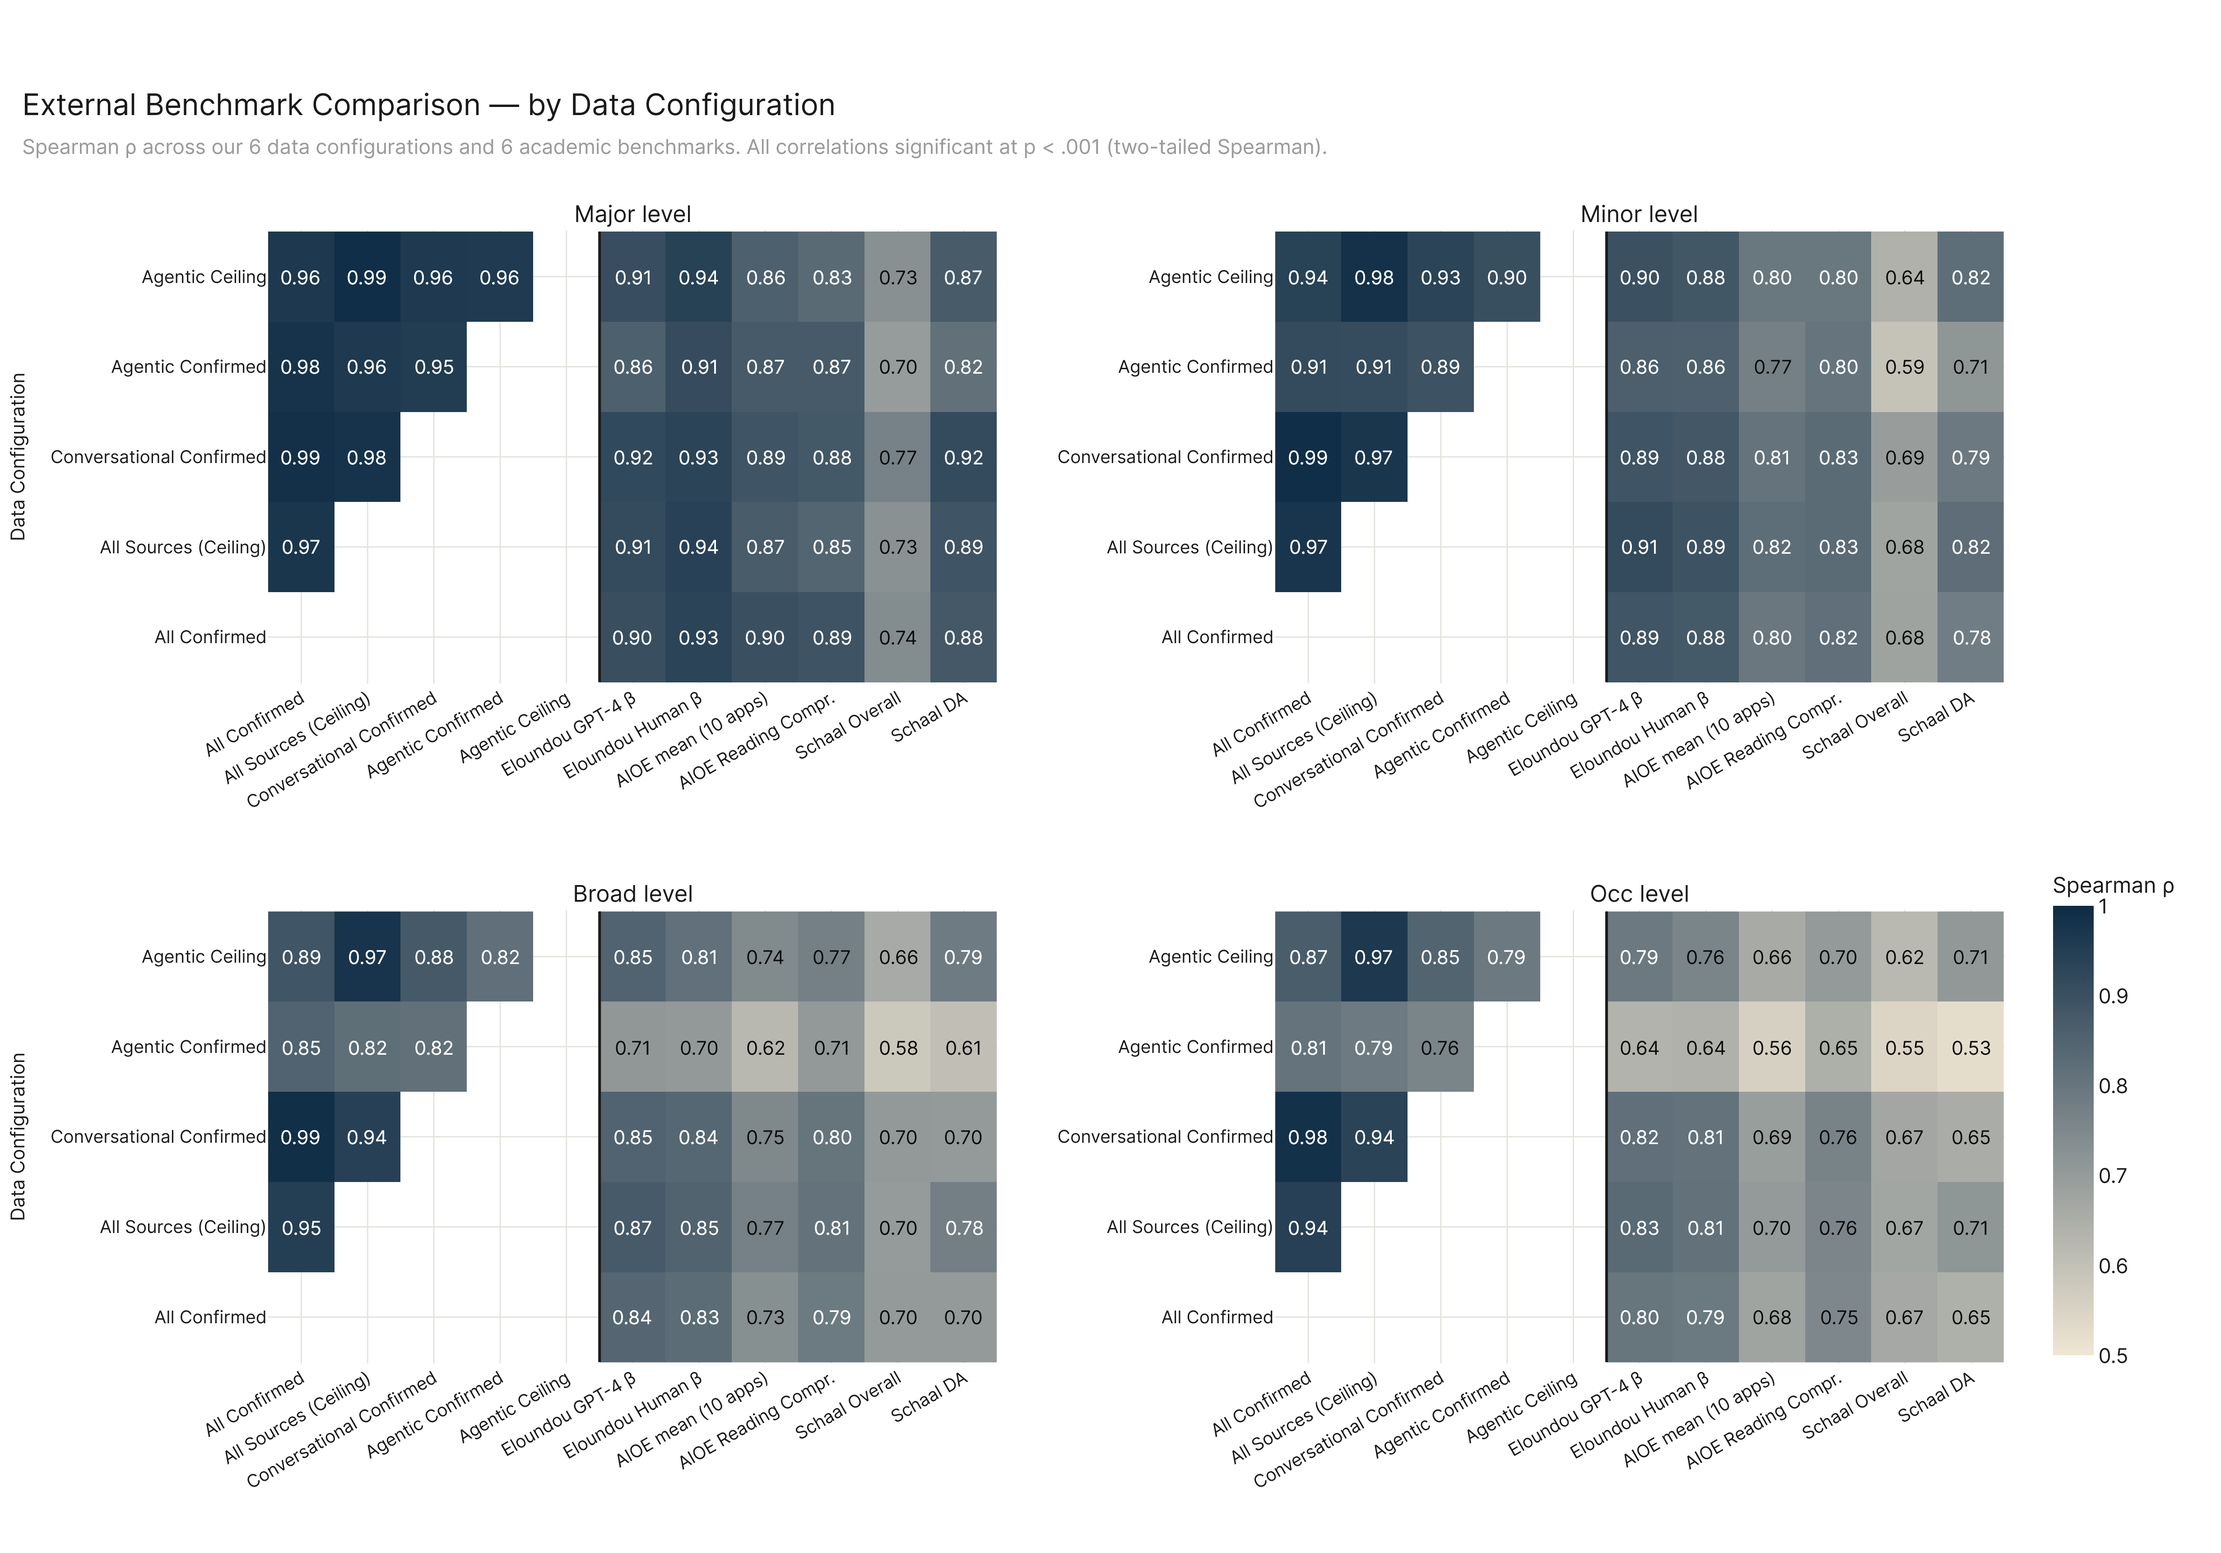
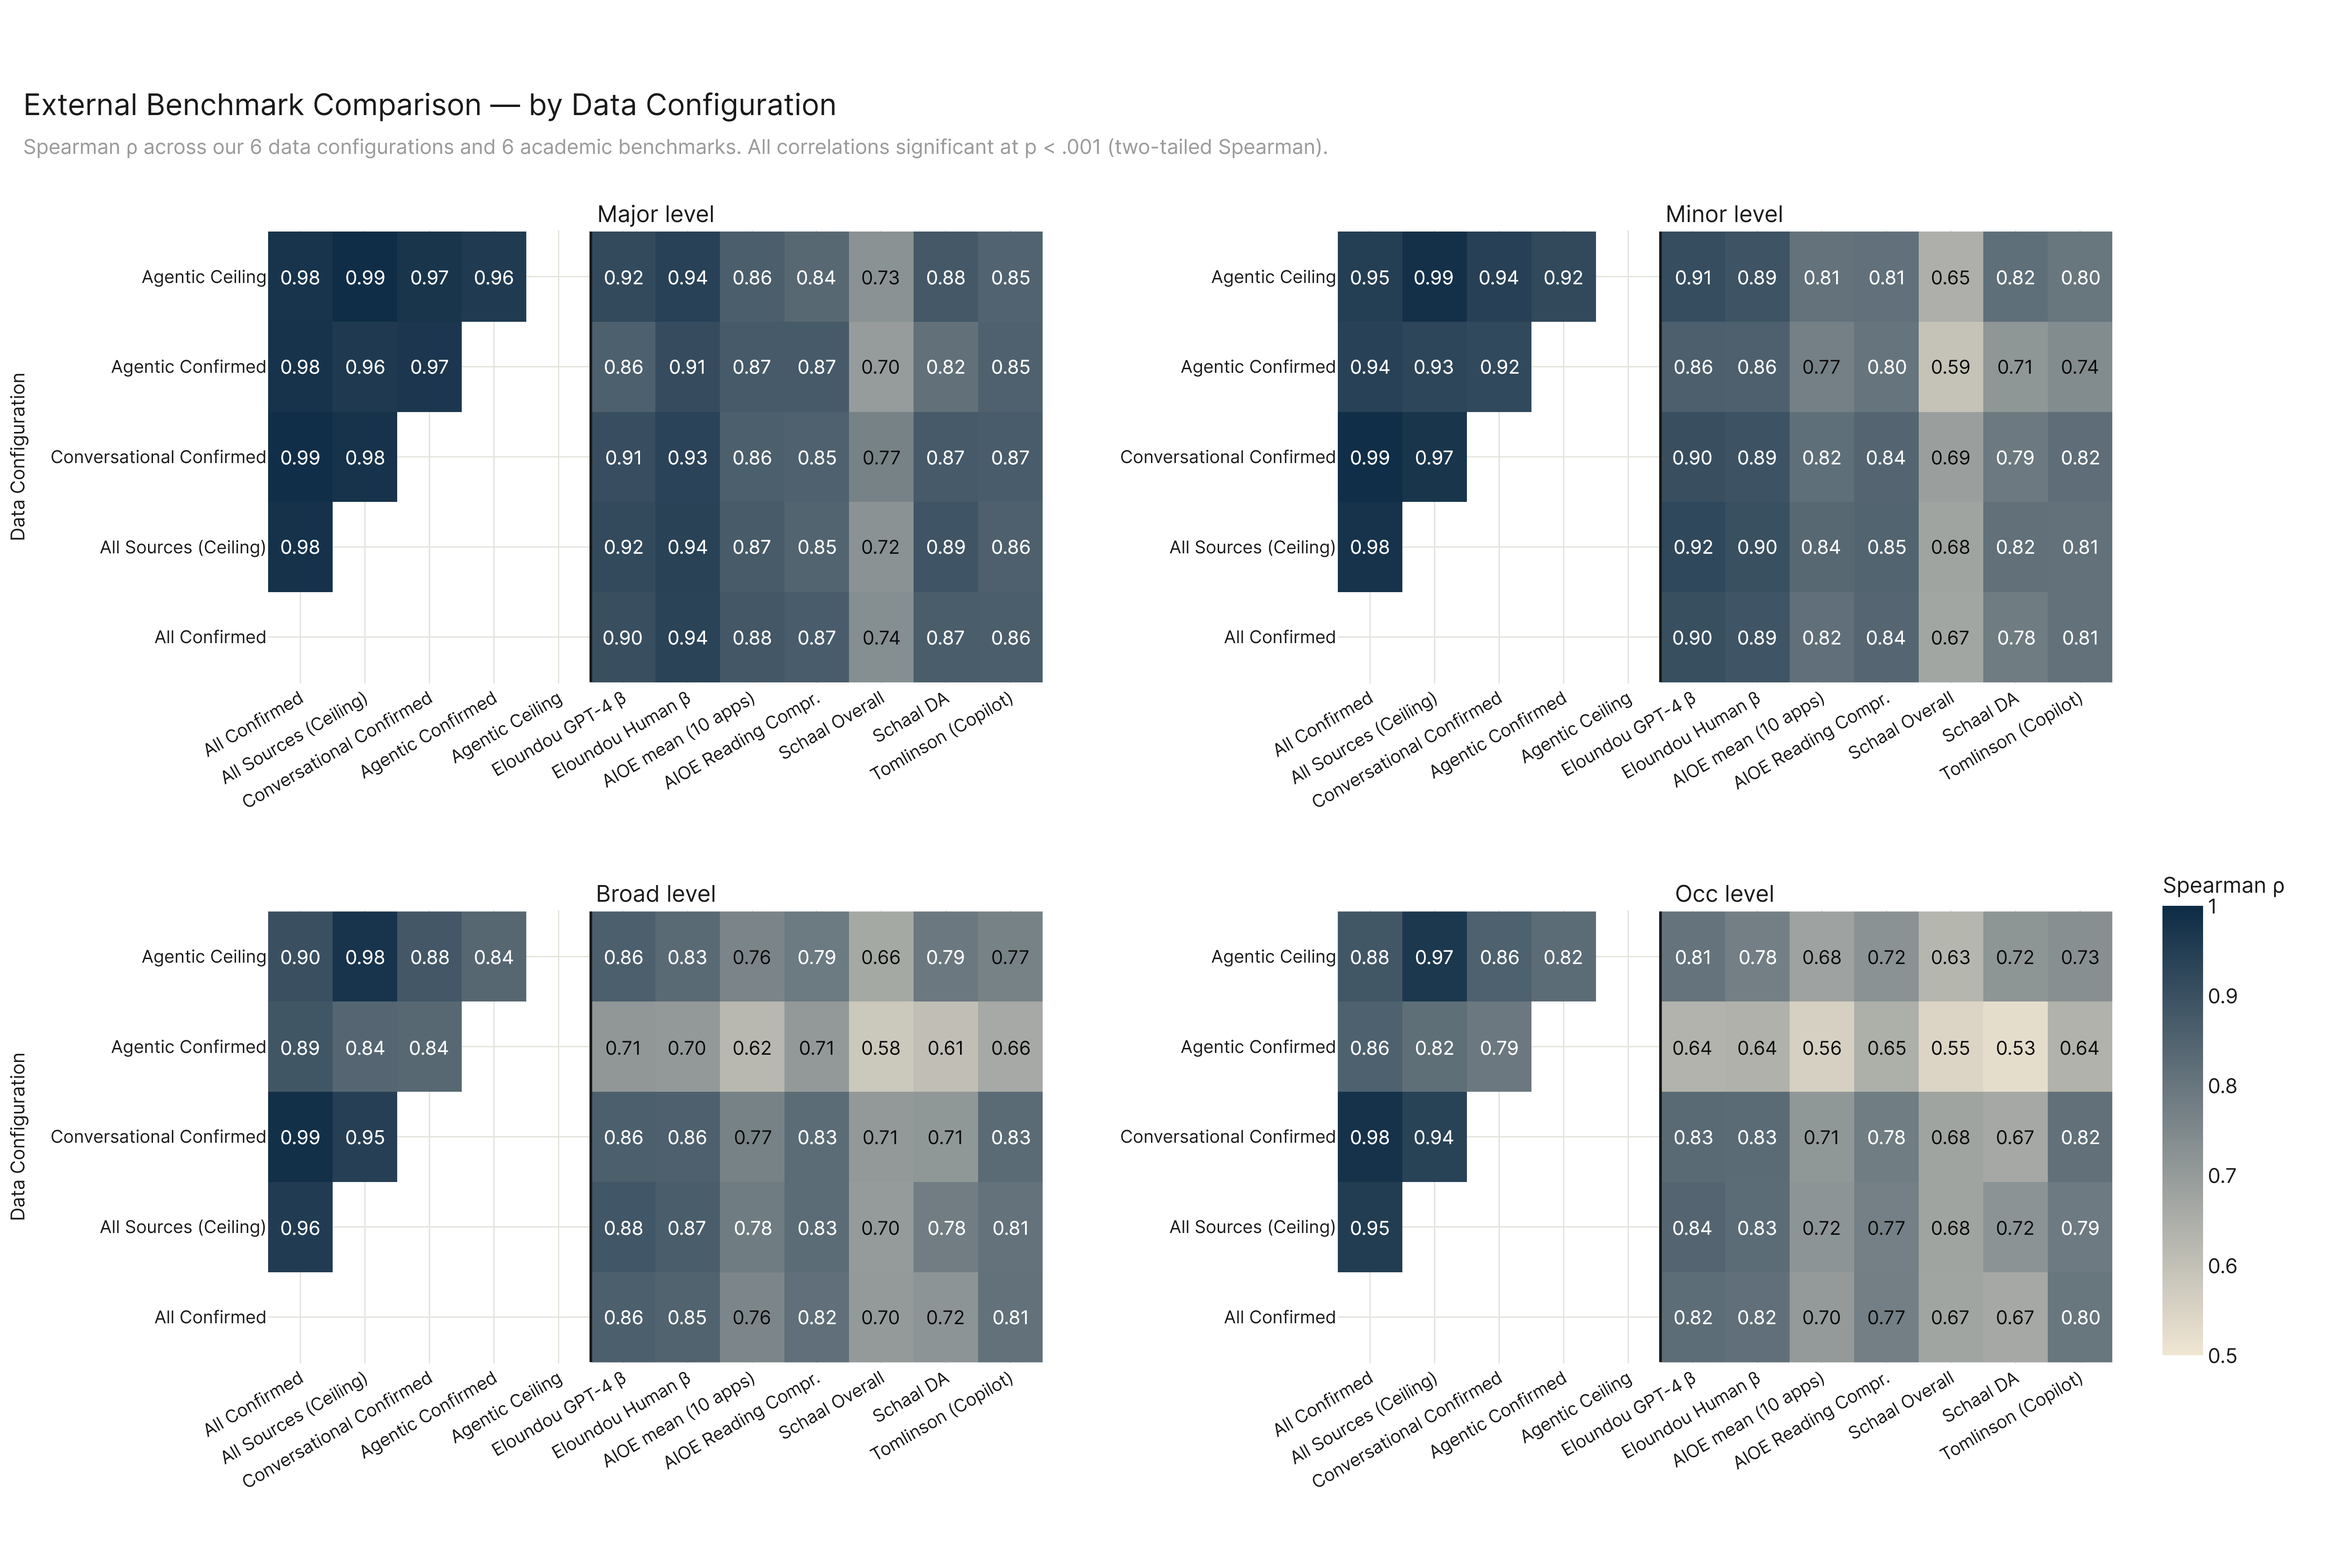
paper(part_1): add Tomlinson (Copilot) AI applicability as 7th external benchmark
Adds Tomlinson, Jaffe, Wang, Counts & Suri 2025 ("Working with AI") AI
applicability scores to convergence.png and convergence_configs.png as a
7th external column. Labeled "Tomlinson (Copilot)" because the score is
derived from Bing Copilot conversations × O*NET IWA weights, sharing its
data family with our internal `Copilot` source row. Renamed the matching
column in the exploratory extcompare_indices heatmap for consistency.

diff --git a/analysis/paper/results/part_1/run.py b/analysis/paper/results/part_1/run.py
@@ -81,12 +81,14 @@ EXT_SOURCES: list[tuple[str, str]] = [
     ("aioe_rc",       "AIOE Reading Compr."),
     ("schaal_overall", "Schaal Overall"),
     ("schaal_da",     "Schaal DA"),
+    ("tomlinson_copilot", "Tomlinson (Copilot)"),
 ]
 
 GPTS_CSV = ANALYSIS_DIR / "data" / "gpts_are_gpts_occ_data.csv"
 AIOE_MATRIX_PATH = ANALYSIS_DIR / "data" / "aioe_ability_matrix.csv"
 ABILITIES_PATH = ANALYSIS_DIR / "data" / "abilities_v30.1.csv"
 SCHAAL_INDICES_CSV = ANALYSIS_DIR / "data" / "Comparison of Indices.csv"
+TOMLINSON_CSV = ANALYSIS_DIR / "data" / "ai_applicability_scores.csv"
 
 
 # ─────────────────────────────────────────────────────────────────────────
@@ -313,6 +315,23 @@ def _load_schaal_occ() -> pd.DataFrame:
     return out
 
 
+def _load_tomlinson_occ() -> pd.DataFrame:
+    """Tomlinson, Jaffe, Wang, Counts & Suri (2025) AI applicability score per
+    SOC, derived from ~100k Bing Copilot conversations × O*NET IWA weights
+    × LLM completion + scope. Title joins exactly to title_current. Returns
+    title_current, tomlinson_copilot."""
+    df = pd.read_csv(TOMLINSON_CSV)
+    assert "title" in df.columns, f"title column missing in {TOMLINSON_CSV}"
+    assert "ai_applicability_score" in df.columns, \
+        f"ai_applicability_score column missing in {TOMLINSON_CSV}"
+    out = pd.DataFrame({
+        "title_current":      df["title"].astype(str),
+        "tomlinson_copilot":  pd.to_numeric(df["ai_applicability_score"], errors="coerce"),
+    }).dropna(subset=["tomlinson_copilot"])
+    assert not out.empty, "Tomlinson scores are all NaN after load"
+    return out
+
+
 def _compute_aioe_occ() -> pd.DataFrame:
     """Per-occupation AIOE scores computed as ratio-of-sums of imp×lv×ability_cap
     over imp≥3 ability rows (per Felten/Raj/Seamans framing). Two variants:
@@ -421,8 +440,11 @@ def _build_convergence_chart(
     eloundou = _load_eloundou_occ()
     aioe = _compute_aioe_occ()
     schaal = _load_schaal_occ()
-    ext_df = eloundou.merge(aioe, on="title_current", how="outer").merge(
-        schaal, on="title_current", how="outer"
+    tomlinson = _load_tomlinson_occ()
+    ext_df = (
+        eloundou.merge(aioe,      on="title_current", how="outer")
+                .merge(schaal,    on="title_current", how="outer")
+                .merge(tomlinson, on="title_current", how="outer")
     )
 
     ext_keys = [k for k, _ in EXT_SOURCES]

diff --git a/analysis/paper/results/part_1/README.md b/analysis/paper/results/part_1/README.md
@@ -7,8 +7,8 @@ First section of the Results chapter. First draft complete. Content in `part_1.m
 | Figure | What It Shows |
 |--------|--------------|
 | `overview.png` | Five-config aggregate footprint: % tasks, workers, and wages as % of national totals (blue/teal/gold bars) |
-| `convergence.png` | 2x2 Spearman rank correlation heatmaps (lower triangle) across four independent sources at four aggregation levels |
-| `convergence_external.png` | 2x2 grid of rectangular 4x4 heatmaps — our four sources (rows) vs. four external academic benchmarks (cols: Eloundou GPT-4 β, Eloundou Human β, AIOE mean, AIOE Reading Comprehension) at four aggregation levels |
+| `convergence.png` | 2x2 Spearman rank correlation heatmaps at four SOC levels. Each panel combines an internal lower-triangle block (4 sources × 4 sources: Claude Browser, Claude API, Copilot, MCP) with a rectangular external block (4 sources × 7 external benchmarks: Eloundou GPT-4 β, Eloundou Human β, AIOE mean, AIOE Reading Comprehension, Schaal Overall, Schaal DA, Tomlinson (Copilot)) |
+| `convergence_configs.png` | Same 2x2 layout but rows are the 5 ANALYSIS_CONFIGS (All Confirmed, All Ceiling, Conversational Confirmed, Agentic Confirmed, Agentic Ceiling) instead of the 4 individual sources. Internal lower-triangle 5×5 + external rectangle 5×7. |
 | `temporal_trend.png` | Three-panel line chart (% tasks / workers / wages) over time, All Confirmed (solid) vs All Ceiling (dashed). Each line is extended past its final observation with a dotted linear OLS projection marking 6mo / 1yr / 2yr horizons (assumes recent rate continues). |
 | `temporal_table_all_confirmed.png` | Growth data table for All Confirmed: tasks, workers, wages, auto-aug, coverage per date |
 | `temporal_table_all_ceiling.png` | Growth data table for All Sources (Ceiling): same columns |
@@ -21,7 +21,7 @@ All charts: National | Freq | Auto-aug ON
 
 **Correlation sources:** Claude (AEI Conv 2026-02-12), Claude API (AEI API 2026-02-12), Copilot (Microsoft), MCP (MCP Cumul. v4)
 
-**External benchmarks:** Eloundou et al. 2023 (`gpts_are_gpts_occ_data.csv`, `dv_rating_beta` and `human_rating_beta`, scaled ×100); AIOE (Felten/Raj/Seamans) — per-occupation score = sum(imp×lv×ability_cap) / sum(imp×lv) over imp≥3 ability rows, using `aioe_ability_matrix.csv` row mean and the Reading Comprehension column. External benchmarks are rolled up from occupation level to SOC group level using an unweighted mean across matched occupations (matches the exploratory gpts_are_gpts and aioe_comparison conventions).
+**External benchmarks:** Eloundou et al. 2023 (`gpts_are_gpts_occ_data.csv`, `dv_rating_beta` and `human_rating_beta`, scaled ×100); AIOE (Felten/Raj/Seamans) — per-occupation score = sum(imp×lv×ability_cap) / sum(imp×lv) over imp≥3 ability rows, using `aioe_ability_matrix.csv` row mean and the Reading Comprehension column; Schaal 2025 (`Comparison of Indices.csv`, `auto_w` overall + `da_w` Data Abundance subhypothesis); Tomlinson, Jaffe, Wang, Counts & Suri 2025 ("Working with AI") AI applicability score (`ai_applicability_scores.csv`) — built on Bing Copilot conversations × O*NET IWA weights, labeled "Tomlinson (Copilot)" because it shares its data family with our internal `Copilot` row. External benchmarks are rolled up from occupation level to SOC group level using an unweighted mean across matched occupations (matches the exploratory gpts_are_gpts and aioe_comparison conventions).
 
 **Tables:** Task Coverage = unique tasks in dataset / unique tasks in eco_2025. Auto-aug = mean across unique tasks. Delta workers/wages show absolute + % change.
 

diff --git a/analysis/ANALYSIS_ARCHITECTURE.md b/analysis/ANALYSIS_ARCHITECTURE.md
@@ -67,7 +67,7 @@ analysis/
 │   ├── extcompare_indices/      — SOC convergence heatmap of our 9
 │   │                              sources/configs vs. all 17 external indices
 │   │                              (Schaal, Eloundou, Webb, SML, AIOE,
-│   │                              Frey-Osborne, Autor, Tomlinson AI App.).
+│   │                              Frey-Osborne, Autor, Tomlinson (Copilot)).
 │   │                              Plus Schaal task-level scatter, group-level
 │   │                              heatmaps, and a magnitude-scatter pair (occ
 │   │                              + major) of all_confirmed vs. 4 external
@@ -421,6 +421,7 @@ The paper also reuses the tech_skills pipeline conceptually from the archived `_
 - **Part 1 temporal_tables historical rows**: the two cream rows above the line-chart series (Sep 2024, Dec 2024) pull task counts from the SAME combined dataset family the line chart uses — `AEI Both + Micro 2024-09-30/2024-12-23` for All Confirmed; `All 2024-09-30/2024-12-23` for Ceiling. Do NOT revert to `Microsoft` and `AEI Conv 2024-12-23` alone — that under-counts the Dec 2024 row.
 - **Part 3 intensity_anchor_fulleco colorbar (% Tasks Exposed)**: Pull colorbar values via `_run_config(PRIMARY_DATASET, "major")` (the dashboard pipeline that drives Part 2 `major_categories`). Do NOT use `compute_major_pct_tasks_affected` from `audit_pct_norm_eco/run_v3.py` — that function restricts to rated task-occ pairs only and produces 53–76% values that don't match the rest of the paper.
 - **Variant A dedup is per-(occ, task)**: eco_2025 expands tasks across GWA/IWA/DWA, so a naive `groupby(major)` would count each task once per work-activity row. `compute_variant_a` dedupes to `(title_current, task_normalized)` before aggregating. For GWA-level variant A, dedup on `(task_normalized, gwa_title)` instead — the same task can legitimately appear in multiple GWAs.
+- **Per-occupation pct_physical MUST dedup on (occ, task)**: same eco_2025 WA-expansion problem. The expansion is *not proportional* between physical and non-physical tasks (some tasks live in 1 WA, others in 4-5). Counting raw rows weights tasks by their WA-expansion factor, giving incorrect per-occ physical share. Per-occ values can differ by up to ~19 pp between deduped and un-deduped versions; the non-phys bucket count differs by ~16 occs (393 un-deduped vs 409 deduped). `_load_occ_structural` and `_load_occ_phys_map` in `paper/results/part_2/run.py` were both fixed to dedup correctly. The dashboard backend (`backend/compute.py:990-991`) already deduped correctly. **Same rule applies to per-occ aggregations of any task-level property** (de, nt, friction props, etc.) — always dedup on `(title_current, task_normalized)` first.
 - **`physical_mode="exclude"` (variant B) requires the backend pipeline**: variant B can't be computed from eco-only data the way variant A can — it needs auto-aug × pct on rated tasks, restricted to non-phys on both sides. Always go through `_run_config(..., physical_mode="exclude")` or `_get_wa_data_with_phys(..., physical_mode="exclude")`.
 - **SKA phys-mix score is unweighted**: Use plain `mean(pct_physical)` across occs with imp ≥ 3 for the element — no employment weighting. The point is the structural physicality of the *element's user base*, not the workforce footprint.
 - **Linear trend extrapolation is "if-rate-continues", not a forecast**: 4-snapshot OLS over 11 months is not a defensible forecast at 2-year horizons. The chart subtitles label it as such; never present the projected values as predictions in prose.
